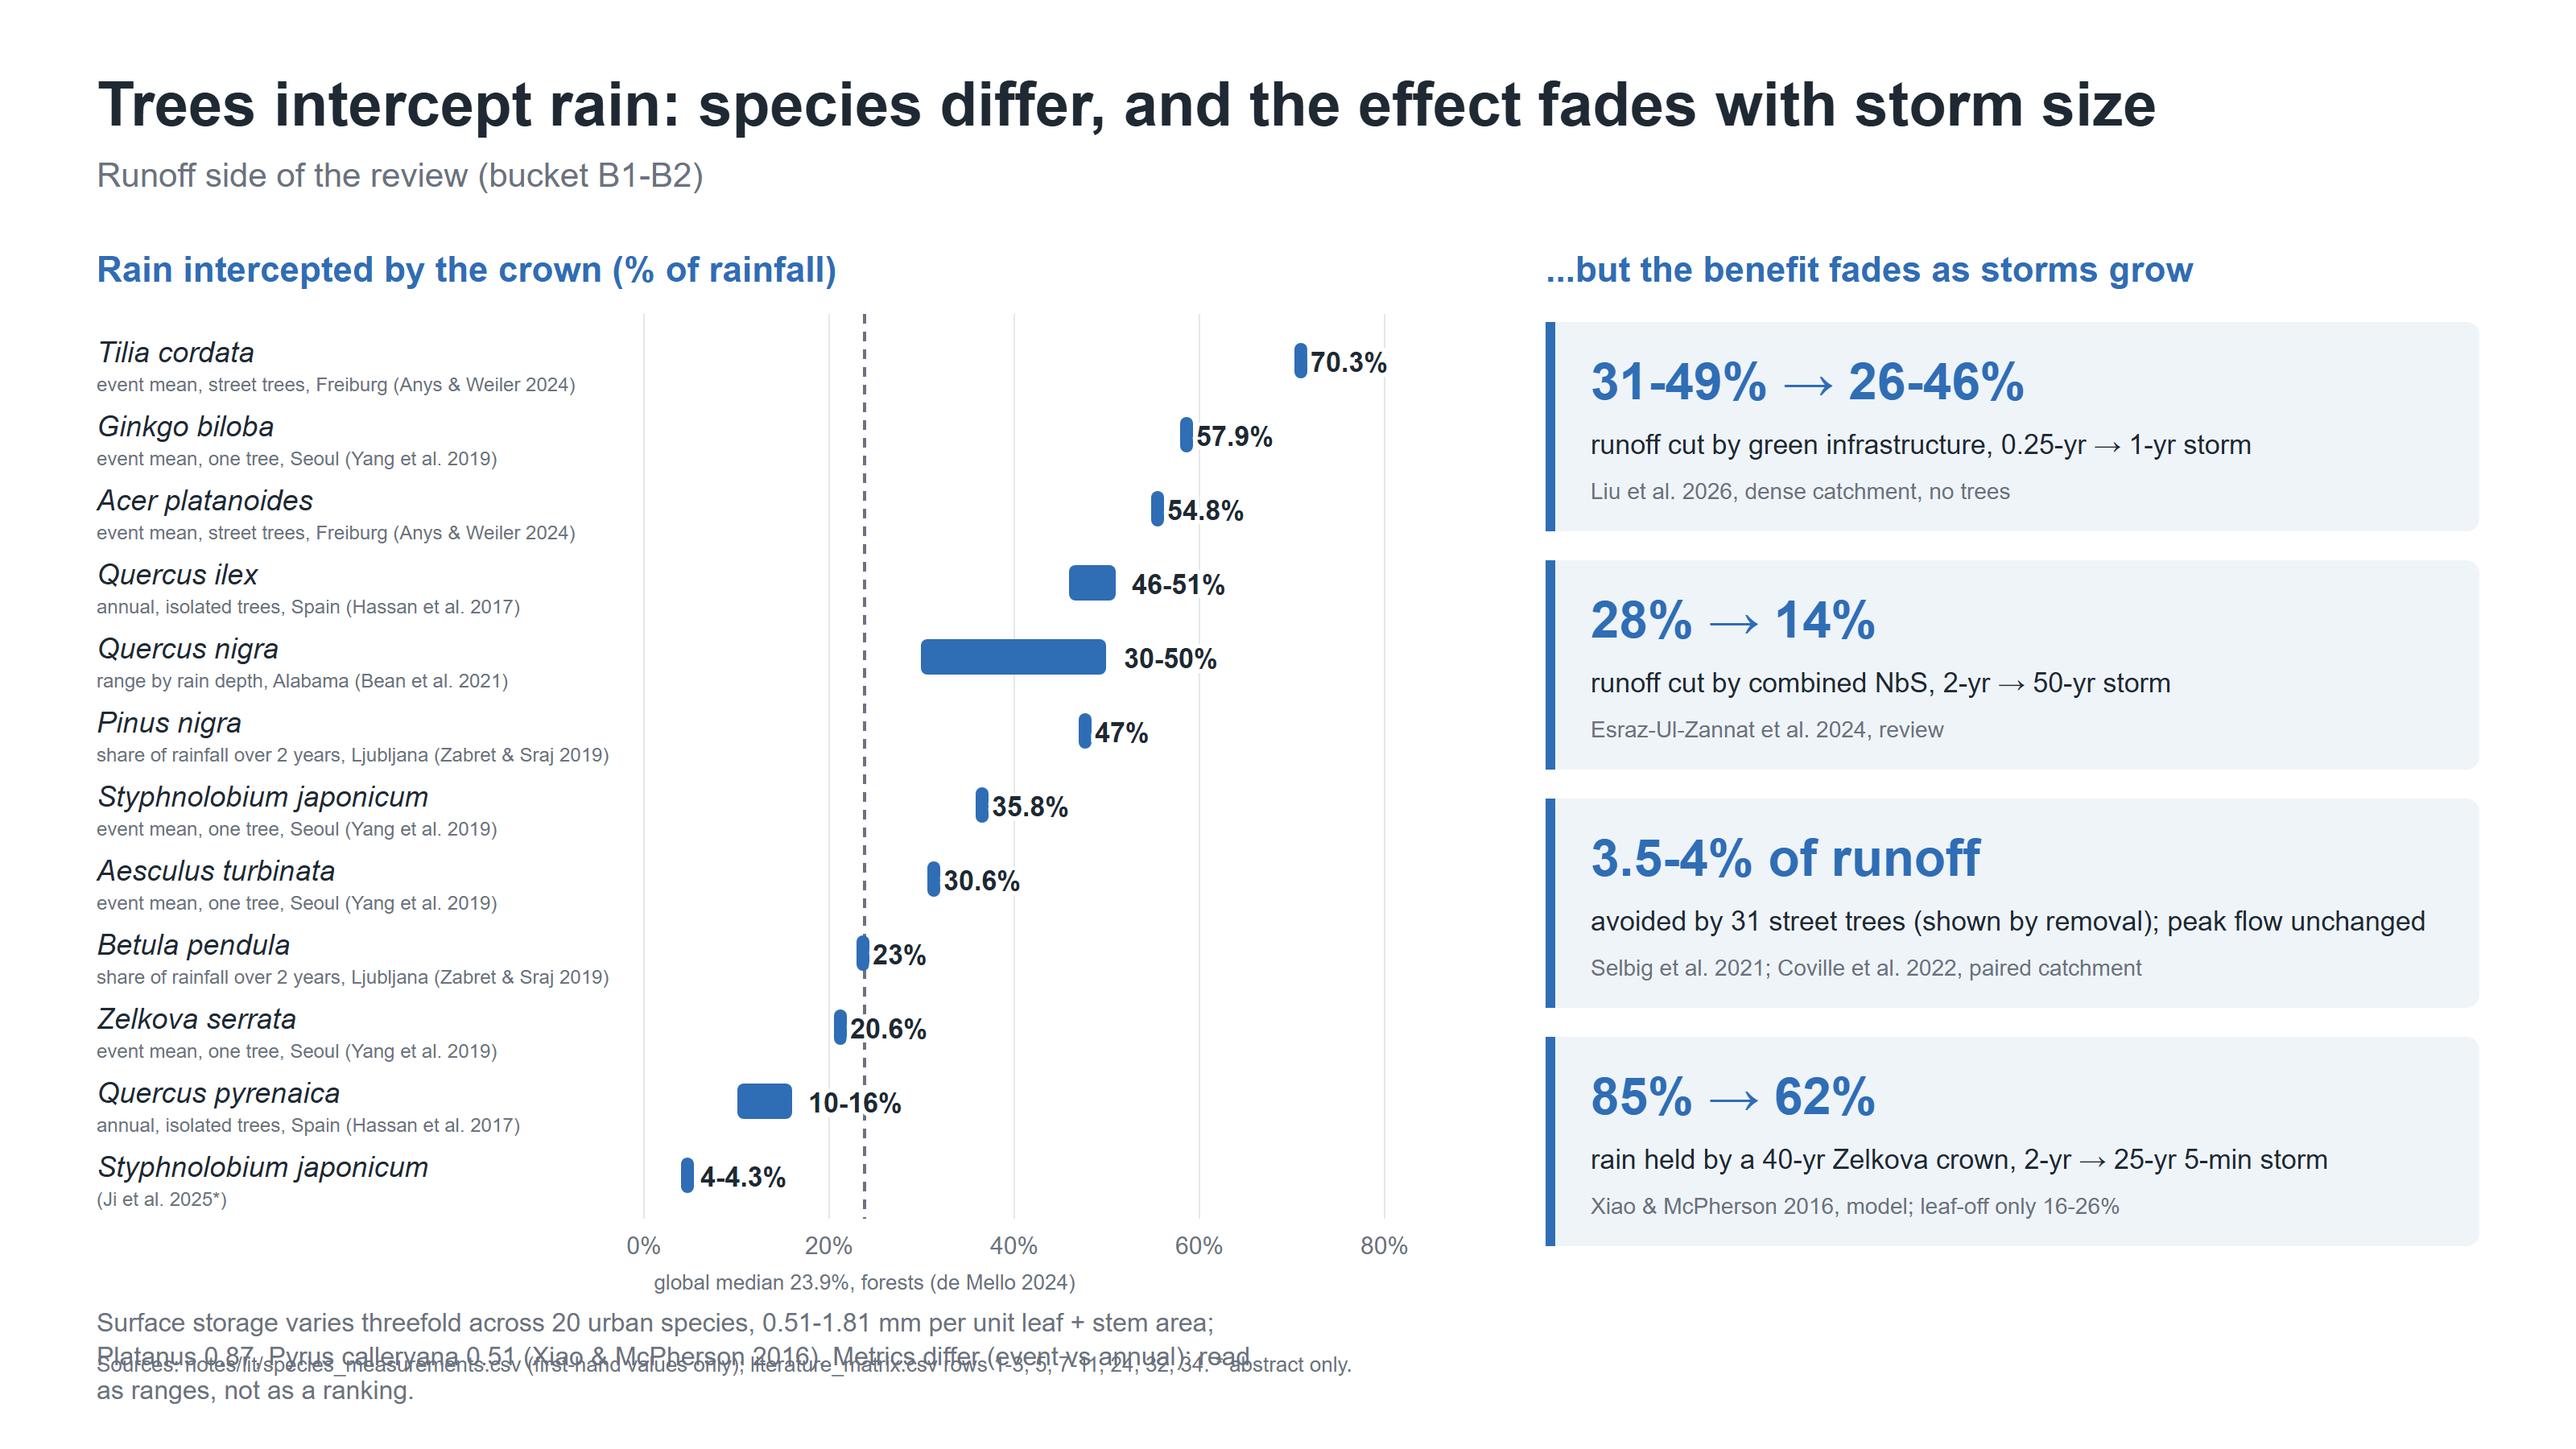
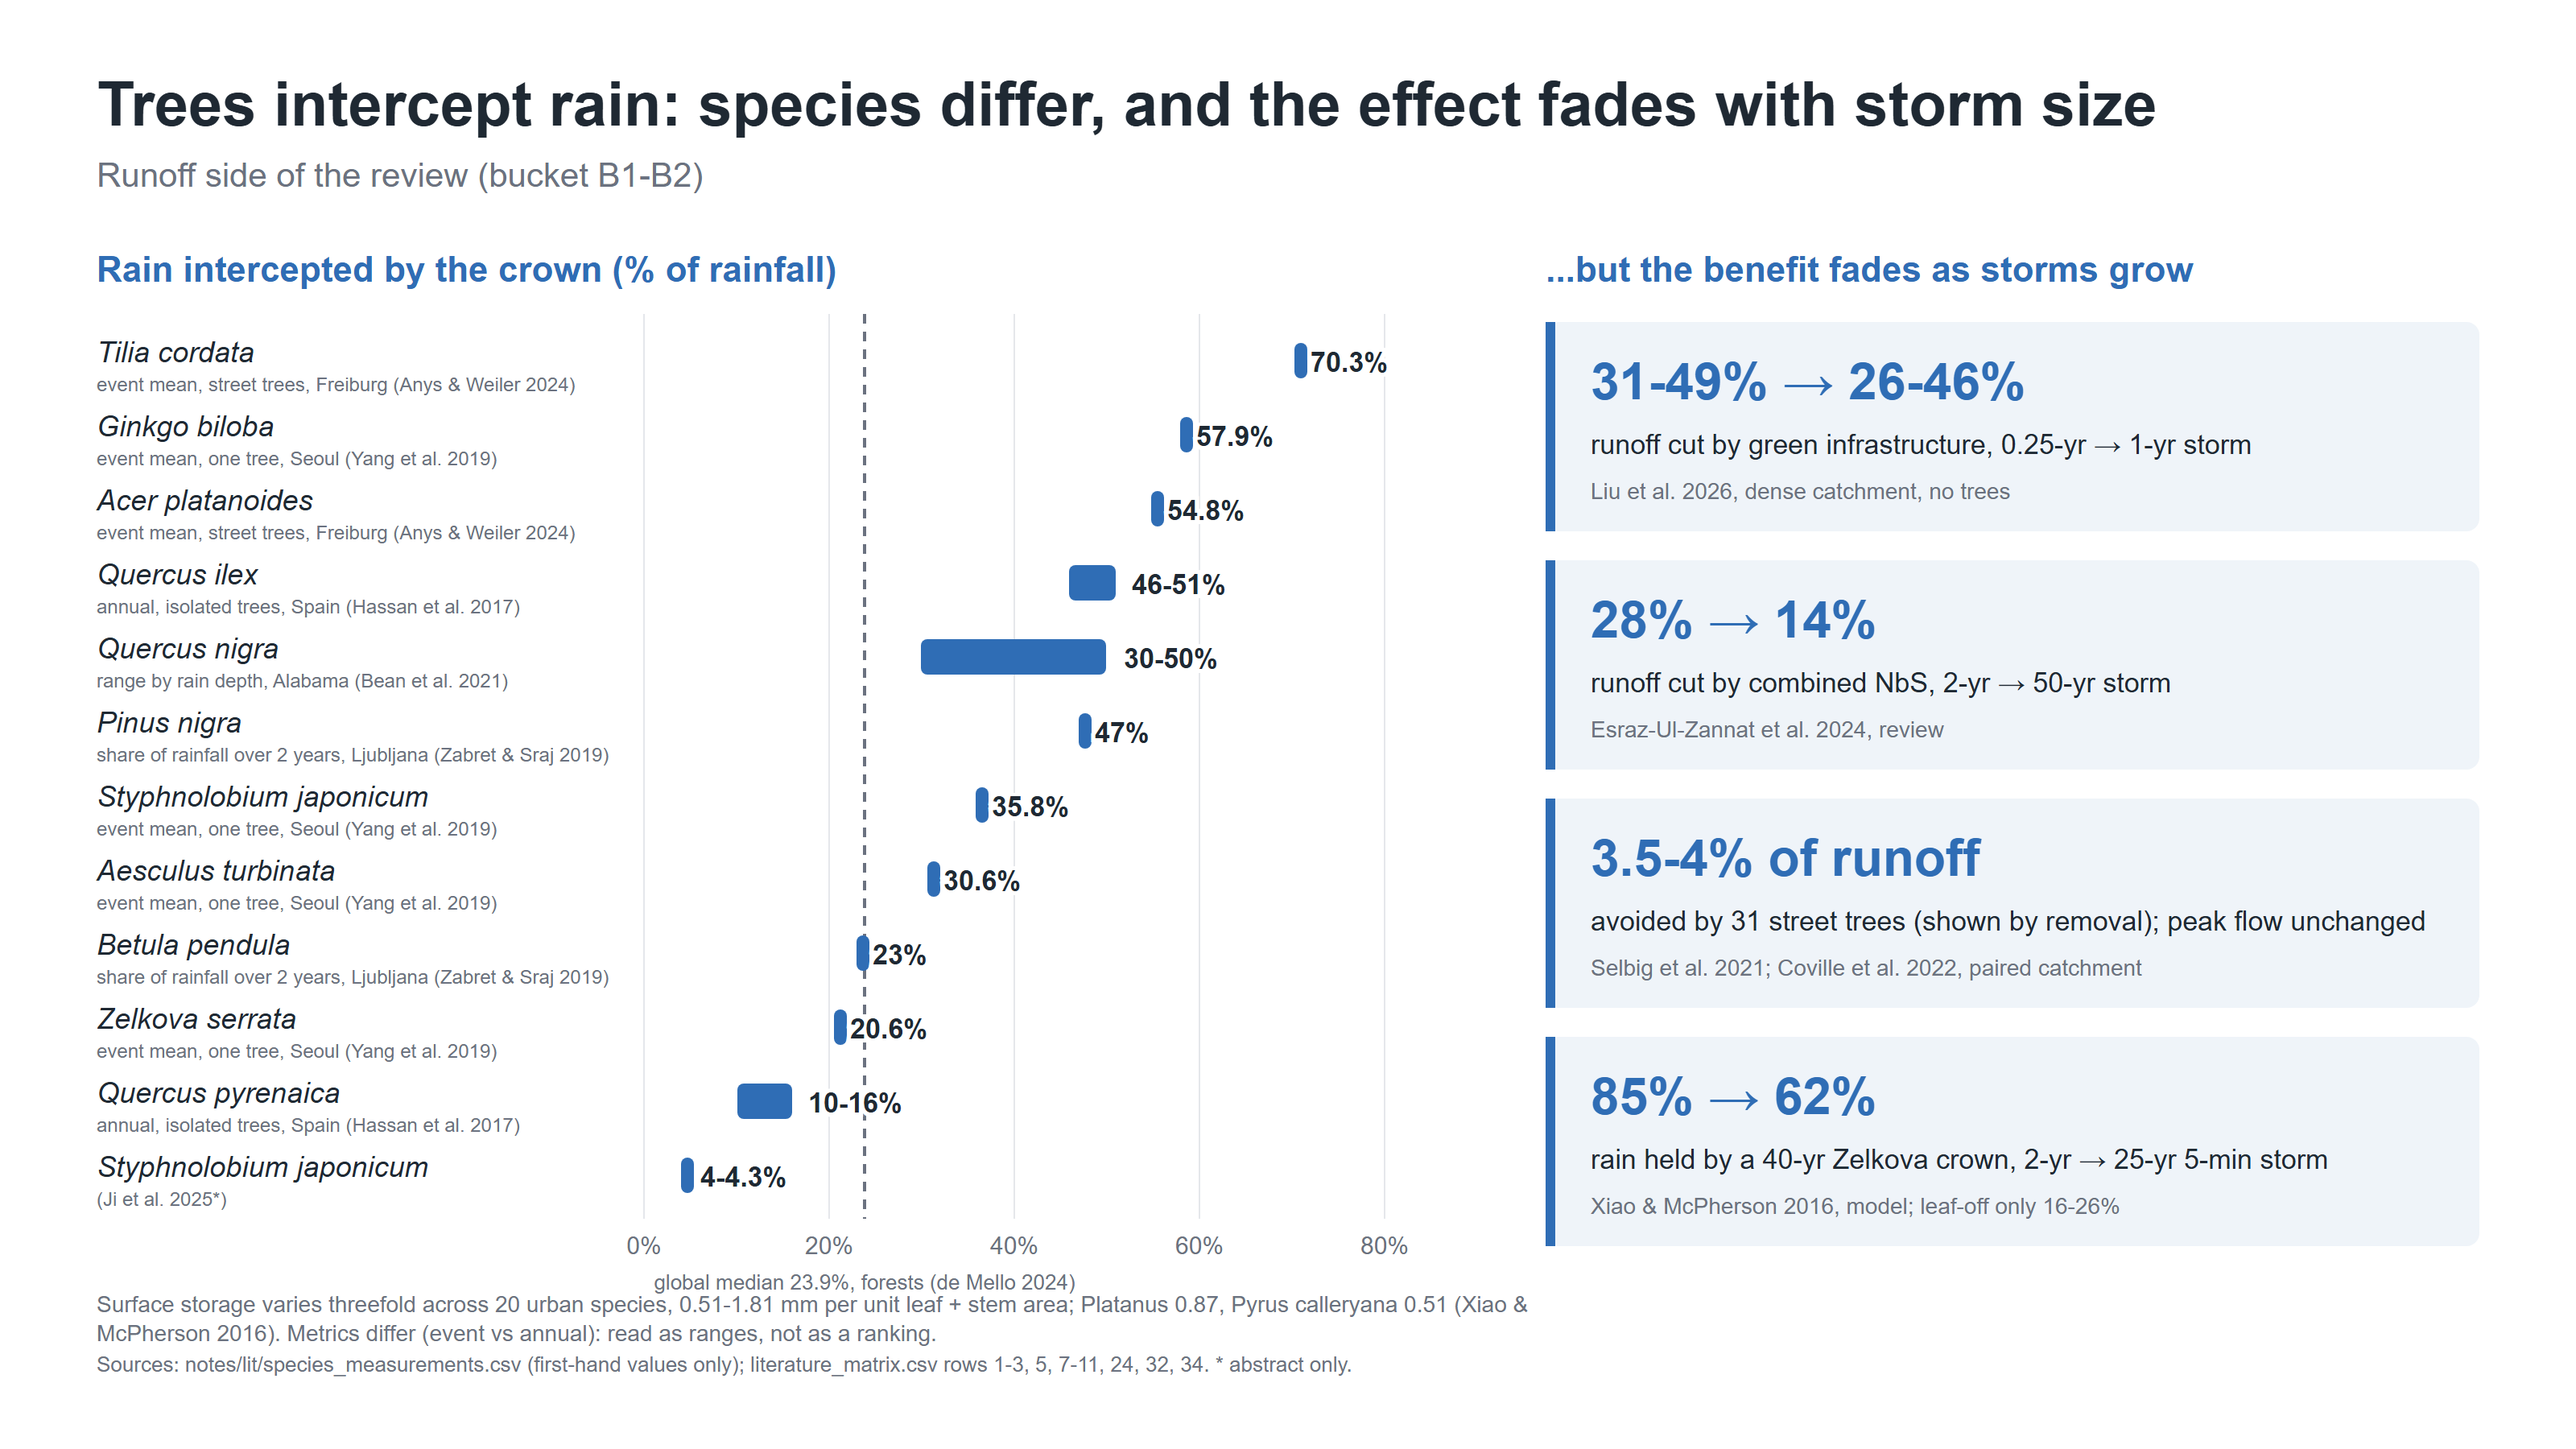
Fix the overlap on figure 06 and simplify figure 17
Figure 06: the closing note on surface storage ran into the sources
footer. It is now 14 px over the full width, two lines, clear of both
the axis caption above it and the footer below.

Figure 17, as the user asked: the three status chips are gone ("asked
13 Oct, no reply", "you co-founded it", "request drafted, not sent"),
the heading is "LIMITS I STATE" rather than "...BEFORE YOU ASK", and the
box is now sized from its own content, so the last limit no longer falls
outside it.

Changed region(s): [[0.0312, 0.8711, 0.4688, 0.9644]]

diff --git a/scripts/make_infographics.py b/scripts/make_infographics.py
@@ -160,9 +160,9 @@ def fig_runoff_evidence():
         lab = f"{r.lo:.3g}" if r.lo == r.hi else f"{r.lo:.3g}-{r.hi:.3g}"
         b += t(sx(r.hi) + 10, y + 26, lab + "%", 17, INK, "bold", halo=True)
         y += step
-    n1, _ = para(60, y + 70, "Surface storage varies threefold across 20 urban species, 0.51-1.81 mm per unit leaf + stem area; "
+    n1, _ = para(60, y + 58, "Surface storage varies threefold across 20 urban species, 0.51-1.81 mm per unit leaf + stem area; "
                              "Platanus 0.87, Pyrus calleryana 0.51 (Xiao & McPherson 2016). Metrics differ (event vs annual): "
-                             "read as ranges, not as a ranking.", 800, 16, fill=MUTED)
+                             "read as ranges, not as a ranking.", 1040, 14, fill=MUTED)
     b += n1
     x = 960
     b += t(x, 175, "...but the benefit fades as storms grow", 22, RAIN, "bold")
@@ -645,11 +645,10 @@ def fig_heat_evidence():
          "Zölch et al. 2019, Bröde et al. 2012 (matrix ids in notes/lit/literature_matrix.csv).")
 
 
-# ---- Slide 17. Limits stated first, and the three things that would unblock the thesis
+# ---- Slide 17. Limits stated first, and what would unblock the thesis
 def fig_limits_asks():
-    b = rect(60, 170, 860, 520, WARN, rx=12, op=0.07) + rect(60, 170, 860, 6, WARN, rx=0)
-    b += t(82, 208, "LIMITS I STATE BEFORE YOU ASK", 18, WARN, "bold")
-    yy = 246
+    items = ""
+    yy = 244
     for h, d in (("Hazard index, not water depth",
                   "the site was chosen on an index; our own routing is not a flood map (ROC AUC 0.52 against RESCCUE)"),
                  ("Volume only", "no sewer, no routing to outlets, no ponding, and no peak flow"),
@@ -658,28 +657,28 @@ def fig_limits_asks():
                  ("Runoff may not separate the palettes", "if the best palette stays under Δmin = 91 m³ the runoff half of H1 is \"not resolved\" — which is still a result"),
                  ("Surface temperature ≠ pedestrian UTCI", "and the EPW is the airport, not the street; the design hour misses the night"),
                  ("Most palette species have no measured traits", "ranges and sensitivity instead — and that gap is itself a finding")):
-        b += t(82, yy, h, 20, INK, "bold")
-        p, hh = para(82, yy + 25, d, 816, 17, fill=MUTED)
-        b += p
-        yy += 25 + hh + 14
+        items += t(82, yy, h, 20, INK, "bold")
+        para_svg, hh = para(82, yy + 25, d, 816, 17, fill=MUTED)
+        items += para_svg
+        yy += 25 + hh + 8
+    box_h = yy - 170 - 6
+    b = rect(60, 170, 860, box_h, WARN, rx=12, op=0.07) + rect(60, 170, 860, 6, WARN, rx=0)
+    b += t(82, 208, "LIMITS I STATE", 18, WARN, "bold") + items
 
-    b += rect(960, 170, 580, 520, TREE, rx=12, op=0.08) + rect(960, 170, 580, 6, TREE, rx=0)
+    b += rect(960, 170, 580, box_h, TREE, rx=12, op=0.08) + rect(960, 170, 580, 6, TREE, rx=0)
     b += t(982, 208, "WHAT WOULD UNBLOCK ME", 18, TREE, "bold")
-    yy = 252
-    for n, (h, d, st, sc) in enumerate(((
-            "The RESCCUE depth maps, usable in a thesis",
-            "the T10/T100 tables are public; what I lack is a licence statement for thesis use",
-            "asked 13 Oct, no reply", WARN), (
-            "Access to Infrared City",
-            "it would replace the fast heat proxy inside the optimiser, with Ladybug kept as the cross-check",
-            "you co-founded it", RAIN), (
-            "The Florence point cloud",
-            "the decisive missing input for the transfer case (Florence also has a 1 h IDF floor and an NC-ND licence)",
-            "request drafted, not sent", WARN))):
+    yy = 256
+    for n, (h, d) in enumerate((
+            ("The RESCCUE depth maps, usable in a thesis",
+             "the T10/T100 tables are public; what I lack is a licence statement for thesis use"),
+            ("Access to Infrared City",
+             "it would replace the fast heat proxy inside the optimiser, with Ladybug kept as the cross-check"),
+            ("The Florence point cloud",
+             "the decisive missing input for the transfer case (Florence also has a 1 h IDF floor and an NC-ND licence)"))):
         b += t(982, yy, f"{n + 1}.  {h}", 21, INK, "bold")
-        p, hh = para(982, yy + 27, d, 536, 17, fill=MUTED)
-        b += p + chip(982, yy + 27 + hh + 4, st, sc)
-        yy += 27 + hh + 56
+        para_svg, hh = para(982, yy + 27, d, 536, 17, fill=MUTED)
+        b += para_svg
+        yy += 27 + hh + 30
 
     b += t(60, 738, "Plan to 18 December", 18, INK, "bold")
     weeks = (("21 Oct – 3 Nov", "LiDAR trees, trait table, runoff validation"),
